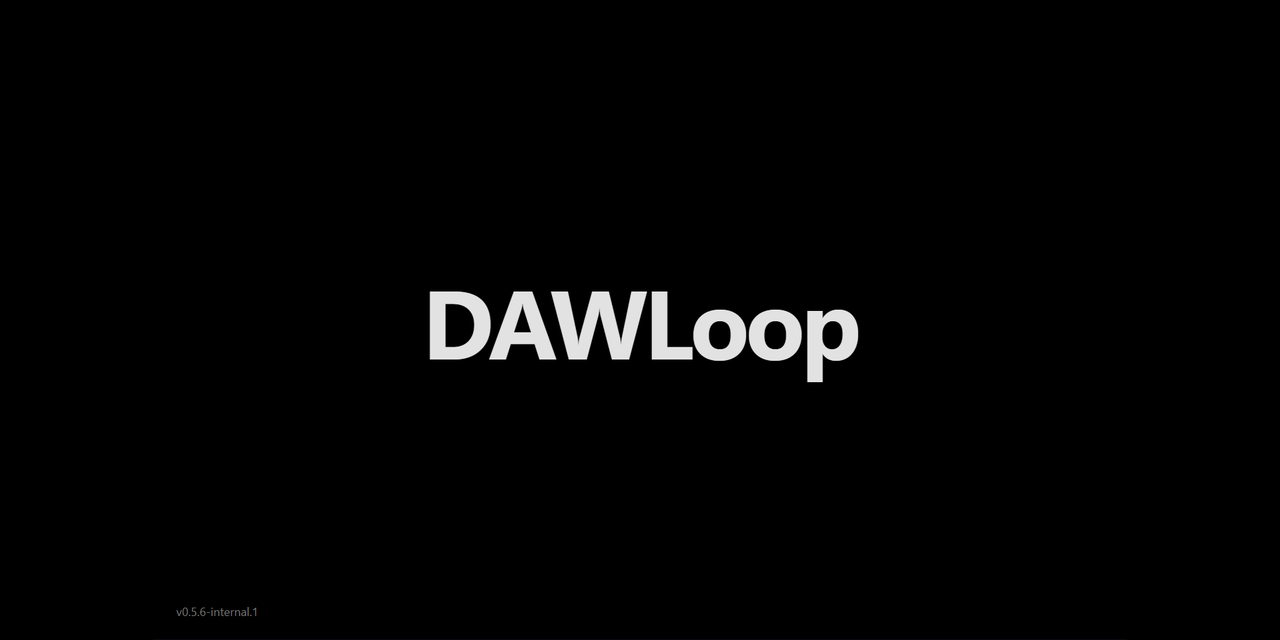
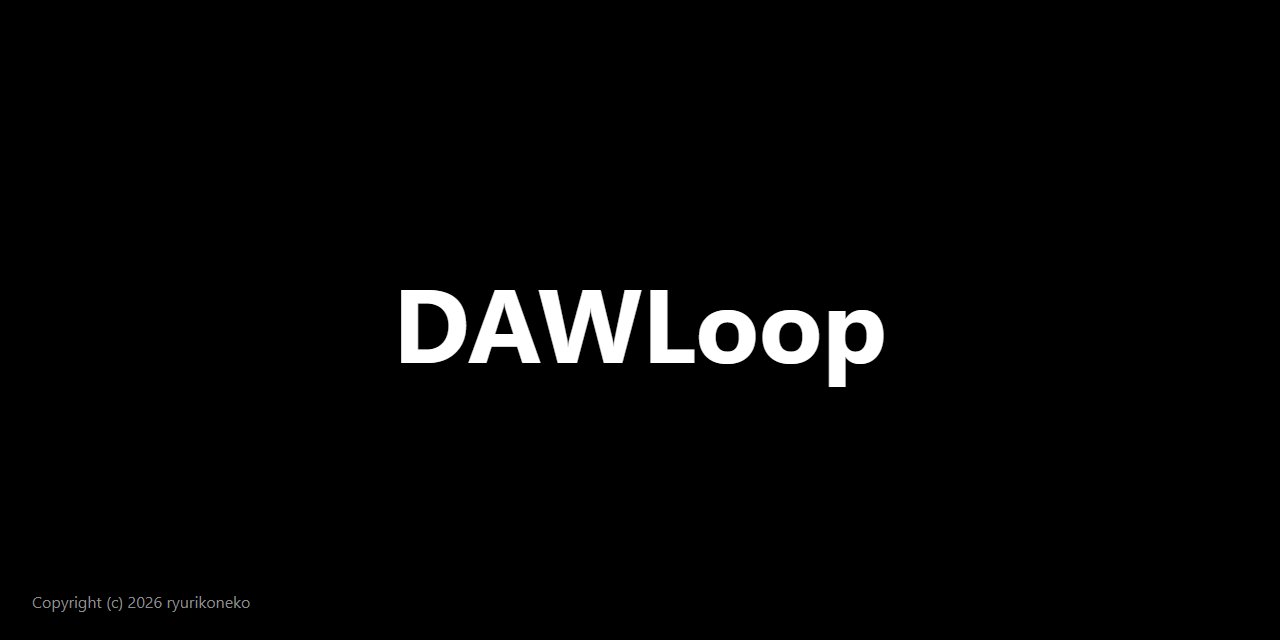
docs(brand): 将项目头图版本改为灰色版权署名

Changed region(s): [[0.3125, 0.4375, 0.6875, 0.625], [0.0312, 0.9375, 0.2188, 0.9688]]

diff --git a/docs/media/README.md b/docs/media/README.md
@@ -1,21 +1,21 @@
 # 品牌与展示素材 / Brand and showcase media
 
-[KNOWN｜HIGH] 圆环青色波形是正式 **Brand icon / Logo**；黑底白字启动截图是 **Splash / Hero image**，不是软件图标。图像均来自用户已选定资产或实际运行的内部候选，未改用其他图标、未添加设计稿界面。
+[KNOWN｜HIGH] 圆环青色波形是正式 **Brand icon / Logo**；黑底白字版权头图是 **Hero image**，风格沿用软件 Splash，不是软件图标。图像均来自用户已选定资产或实际运行的内部候选，未改用其他图标、未添加设计稿界面。
 
-[KNOWN | HIGH] The cyan circular waveform is the official brand icon / logo. The black-and-white startup capture is the splash / hero image, not the app icon. Assets are user-selected or captured from the running candidate, not invented UI.
+[KNOWN | HIGH] The cyan circular waveform is the official brand icon / logo. The black-and-white copyright banner is a code-native hero in the splash style, not the app icon. Assets are user-selected or captured from the running candidate, not invented UI.
 
 | 文件 / File | 角色 / Role | 来源 / Source |
 | --- | --- | --- |
 | [logo.png](logo.png) | 正式 Logo / Official logo | 用户选定透明1024px素材，像素未改 / Selected transparent asset, unchanged pixels |
-| [hero.png](hero.png) | 首页头图 / README hero | 真实启动遮罩截图 / Actual splash capture |
-| [social-preview.png](social-preview.png) | Social Preview 候选 | 真实 hero 等比缩放并黑色补边，1280×640 / Aspect-preserving hero derivative |
+| [hero.png](hero.png) | 首页头图 / README hero | SVG文字排版，左下灰色版权署名，无软件版本 / SVG wordmark and gray copyright signature, no software version |
+| [social-preview.png](social-preview.png) | Social Preview 候选 | 同款版权头图，1280×640 / Same copyright hero |
 | [music-workspace.png](music-workspace.png) | 音乐工作区 | 实际内部候选 / Running candidate |
 | [analysis-report.png](analysis-report.png) | 分析结果 | 自有合成189秒素材；估计保持不确定 / Owned synthetic audio; uncertainty retained |
 | [piano-roll.png](piano-roll.png) | 交互编辑器 | 实际音符及力度编辑 / Actual note and velocity editor |
 
-[COMPUTED｜HIGH] 每张图的来源字节摘要、发布摘要、候选版本、源码提交和转换记录见 [provenance.json](provenance.json)。源日志/文件的本机绝对路径不公开。工作区截图仅无损重压缩；Hero 与 Social Preview 的等比缩放及黑色补边明确记录，未替换结果文字。未发现私人曲名、用户名、绝对路径、密钥、模型缓存或第三方桌面内容。
+[COMPUTED｜HIGH] 每张图的来源字节摘要、发布摘要、候选版本、源码提交和转换记录见 [provenance.json](provenance.json)。源日志/文件的本机绝对路径不公开。工作区截图仅无损重压缩；Hero/Social改为可编辑SVG排版并渲染PNG，明确属于品牌图而非实际软件截图，不改功能截图或分析结果。未发现私人曲名、用户名、绝对路径、密钥、模型缓存或第三方桌面内容。
 
-[COMPUTED | HIGH] [Provenance](provenance.json) records source/published hashes, candidate version, commit and transformations without local absolute paths. Workspace screenshots are losslessly recompressed; hero/social resizing and letterboxing are explicit. No private titles, usernames, paths, keys, caches or unrelated desktop content were found in the reviewed images.
+[COMPUTED | HIGH] [Provenance](provenance.json) records source/published hashes, candidate version, commit and transformations without local absolute paths. Workspace screenshots are losslessly recompressed; hero/social are now rendered from editable SVG and explicitly classified as brand images rather than software screenshots. No private titles, usernames, paths, keys, caches or unrelated desktop content were found in the reviewed images.
 
 ## 版权与使用 / Copyright and use
 
@@ -27,10 +27,12 @@
 
 [KNOWN｜HIGH] 已准备1280×640、低于1MB、实心黑底 PNG。符合 [GitHub 官方尺寸建议](https://docs.github.com/en/repositories/managing-your-repositorys-settings-and-features/customizing-your-repository/customizing-your-repositorys-social-media-preview)。本轮只准备候选，未上传到 Settings，未改变远端 Social Preview。
 
-[KNOWN | HIGH] A solid-black 1280×640 PNG below 1MB is prepared per GitHub guidance. It has not been uploaded to repository Settings. The screenshot's version is an internal Desktop capture, not a Runtime release version.
+[KNOWN | HIGH] A solid-black 1280×640 PNG below 1MB is prepared per GitHub guidance. It has not been uploaded to repository Settings. The brand hero contains a copyright signature instead of a software version; the actual application splash keeps its dynamic version.
 
 ## 个人拟定主体与权属复核 / Individual-holder review
 
 [KNOWN｜HIGH] 原署名ryurikoneko保留；用户拟定个人持有，不填写法定姓名。Logo、启动页和同源图像的实际作者/完整权属/历史授权未核清，PENDING_OWNER_REVIEW。既有声明不撤回早期可能已授出的许可；未来角色只占位、不公开私人源文件。[品牌清单](../brand/README.md)
 
 [KNOWN | HIGH] The original public signature is retained. Individual ownership is a plan, not verified legal title. Authorship and prior grants remain pending review. Prior permissions are preserved; future character placeholders neither assert rights nor publish source art.
+
+[KNOWN｜HIGH] [可编辑头图源文件](hero-source.svg)仅包含黑底、白字DAWLoop和左下灰字Copyright (c) 2026 ryurikoneko。该署名是用户要求的公开品牌标记，不证明登记、法定身份或完整权属；相关PENDING_OWNER_REVIEW状态保持。软件内Splash实际版本显示不变。

diff --git a/docs/GITHUB_SHOWCASE.md b/docs/GITHUB_SHOWCASE.md
@@ -16,7 +16,7 @@
 
 ## Social Preview 与徽章
 
-[COMPUTED｜HIGH] [social-preview.png](media/social-preview.png) 已准备1280×640、低于1MB，黑底白字来自实际 Splash；不会替代正式圆环 Logo。尺寸依据 [GitHub官方说明](https://docs.github.com/en/repositories/managing-your-repositorys-settings-and-features/customizing-your-repository/customizing-your-repositorys-social-media-preview)。本轮未改 Settings，候选审核和推送仍需后续授权。
+[COMPUTED｜HIGH] [social-preview.png](media/social-preview.png) 已准备1280×640、低于1MB，黑底白字沿用 Splash 风格，由SVG排版生成版权头图，不冒充软件截图；不会替代正式圆环 Logo。尺寸依据 [GitHub官方说明](https://docs.github.com/en/repositories/managing-your-repositorys-settings-and-features/customizing-your-repository/customizing-your-repositorys-social-media-preview)。本轮未改 Settings，候选审核和推送仍需后续授权。
 
 [KNOWN｜HIGH] README 只保留真实 main CI、MIT code 与 Alpha 标识。CI 徽章表示公开 main 的离线检查，不认证内部 Desktop 或 FL 现场；没有下载量、用户数或稳定版徽章。图像另有品牌版权条款。
 

diff --git a/docs/DAWLOOP_RUNTIME_V2.md b/docs/DAWLOOP_RUNTIME_V2.md
@@ -2,6 +2,11 @@
 
 <a id="current"></a>
 
+## 项目头图版权署名：2026-10-14
+
+[KNOWN｜HIGH] 用户要求GitHub品牌头图不得显示软件版本。Hero与Social候选改为纯黑底白字SVG排版，左下灰字Copyright (c) 2026 ryurikoneko，明确为品牌图而非软件截图；应用内动态版本、正式圆环Logo及功能截图不改。权属待审核与既有许可边界不变，本地候选提交，不Push或改远端设置。
+
+
 ## 品牌与角色资产补充候选：2026-10-14
 
 [KNOWN｜HIGH] 用户确定拟定个人主体INDIVIDUAL、公开署名ryurikoneko，不填写法定姓名。新增[品牌清单](brand/README.md)、角色占位、历史许可审查与登记准备建议；作者/完整权属/既有授权未清统一PENDING_OWNER_REVIEW，未登记状态不附伪造编号或证书。

diff --git a/README.en.md b/README.en.md
@@ -1,4 +1,4 @@
-<p align="center"><img src="docs/media/hero.png" alt="DAWLoop black-and-white splash hero captured from the internal candidate" width="100%"></p>
+<p align="center"><img src="docs/media/hero.png" alt="DAWLoop black-and-white brand hero with a copyright signature" width="100%"></p>
 
 <p align="center"><img src="docs/media/logo.png" alt="Official DAWLoop circular waveform logo" width="64" height="64"></p>
 

diff --git a/README.md b/README.md
@@ -1,4 +1,4 @@
-<p align="center"><img src="docs/media/hero.png" alt="DAWLoop 黑底白字启动页头图，内部候选真实截图" width="100%"></p>
+<p align="center"><img src="docs/media/hero.png" alt="DAWLoop 黑底白字品牌头图，左下角为版权署名" width="100%"></p>
 
 <p align="center"><img src="docs/media/logo.png" alt="DAWLoop 圆环波形正式 Logo" width="64" height="64"></p>
 
